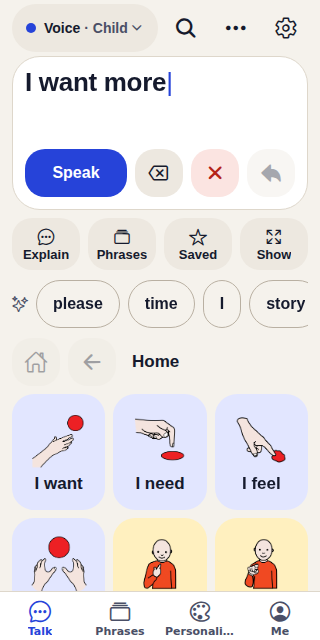
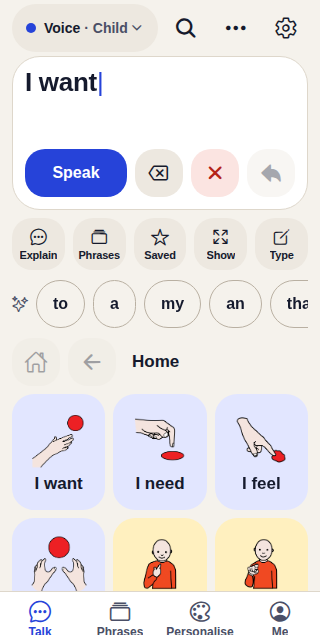
Type tool: keyboard input with on-device word completion
A fifth tool on the new board opens a Type sheet. Typed words join the
message (so Speak, Undo, Show, Saved and history work as usual); suggestion
chips complete the word being typed from the same engine as the board.
Nothing is spoken or added until the user taps Add or Add and speak.
Tool labels fit five tools on 320 dp screens.

Claude-Session: https://claude.ai/code/session_01DHKTmgjGBbdjHpazCRxgZn

diff --git a/src/screens/StudioBoardScreen.js b/src/screens/StudioBoardScreen.js
@@ -31,6 +31,7 @@ import ExplainSheet from '../components/studio/ExplainSheet';
 import PhrasesSheet from '../components/studio/PhrasesSheet';
 import SavedSheet from '../components/studio/SavedSheet';
 import ShowMessage from '../components/studio/ShowMessage';
+import TypeSheet from '../components/studio/TypeSheet';
 import ModeSheet from '../components/studio/ModeSheet';
 import MoreSheet from '../components/studio/MoreSheet';
 import { advanceScan, selectCurrent, getScanState } from '../services/switchScanService';
@@ -45,6 +46,7 @@ export default function StudioBoardScreen() {
     { id: 'tool-phrases', label: 'Phrases', onSelect: () => openRef.current?.('phrases') },
     { id: 'tool-saved', label: 'Saved', onSelect: () => openRef.current?.('saved') },
     { id: 'tool-show', label: 'Show', onSelect: () => openRef.current?.('show') },
+    { id: 'tool-type', label: 'Type', onSelect: () => openRef.current?.('type') },
   ], []);
   const b = useBoardController({ modelling, extraActions });
   const {
@@ -52,7 +54,7 @@ export default function StudioBoardScreen() {
     suggestions, history, favourites, undoWords, showFinder, setShowFinder,
     speechProblem, gridRef, sentenceScrollRef, predictionEnabled, chipFit, scanActive,
     toggleScan, isScanFocused, goBack, goHome, handleButtonPress, handleSuggestionPress,
-    speakSentence, removeLastWord, clearSentence, undo, replaceSentence, say,
+    speakSentence, removeLastWord, clearSentence, undo, replaceSentence, say, addWords,
     repeatFromHistory, speakFavourite, handleToggleFavourite, confirmRemoveFavourite,
     handleFinderAdd, handleFinderShowPage, handleFinderNoResults, isCurrentFavourite,
     voicePreset, setVoicePreset, updateSettings,
@@ -71,11 +73,21 @@ export default function StudioBoardScreen() {
   // word always speaks the message.
   const [speaking, setSpeaking] = useState(false);
   useEffect(() => subscribeSpeechStatus((st) => { if (!st.speaking) setSpeaking(false); }), []);
+  // "Add and speak" from Type: speak once the typed words are in the message,
+  // through the normal Speak path (history, learning, Stop all apply).
+  const [speakAfterAdd, setSpeakAfterAdd] = useState(false);
   const speakOrStop = useCallback(() => {
     if (speaking) { stop(); setSpeaking(false); return; }
     speakSentence();
     setSpeaking(true);
   }, [speaking, speakSentence]);
+  useEffect(() => {
+    if (!speakAfterAdd) return;
+    setSpeakAfterAdd(false);
+    speakSentence();
+    setSpeaking(true);
+    // eslint-disable-next-line react-hooks/exhaustive-deps
+  }, [sentenceWords]);
 
   // Re-render tiles when symbols finish downloading.
   const [symbolTick, setSymbolTick] = useState(0);
@@ -217,7 +229,7 @@ export default function StudioBoardScreen() {
       ]}
     >
       <Ionicons name={icon} size={19} color={c.ink} />
-      <Text style={[type.label, { color: c.ink, fontSize: 13, lineHeight: 16 }]} numberOfLines={1} maxFontSizeMultiplier={1.3}>{label}</Text>
+      <Text style={[type.label, { color: c.ink, fontSize: narrow ? 11 : 13, lineHeight: 16, letterSpacing: narrow ? -0.2 : 0 }]} numberOfLines={1} adjustsFontSizeToFit minimumFontScale={0.75} maxFontSizeMultiplier={1.3}>{label}</Text>
     </Pressable>
   );
   const tools = (
@@ -226,6 +238,7 @@ export default function StudioBoardScreen() {
       {tool('albums-outline', context ? context.label : 'Phrases', 'phrases', () => open('phrases'), `Phrases${context ? ` for ${context.label}` : ''}`)}
       {tool('star-outline', 'Saved', 'saved', () => open('saved'), 'Saved and recent messages')}
       {tool('expand-outline', 'Show', 'show', () => open('show'), t('showOnScreen'))}
+      {tool('create-outline', 'Type', 'type', () => open('type'), 'Type with the keyboard')}
     </View>
   );
 
@@ -387,6 +400,12 @@ export default function StudioBoardScreen() {
         favourites={favourites} history={history} hasWords={hasWords} isCurrentFavourite={isCurrentFavourite}
         onToggleCurrent={handleToggleFavourite} onFavourite={(f) => { speakFavourite(f); close(); }}
         onHistory={(h) => { repeatFromHistory(h); close(); }} onRemoveFavourite={confirmRemoveFavourite}
+      />
+      <TypeSheet
+        visible={sheet === 'type'} onClose={close} messageWords={sentenceWords}
+        context={settings.activeContext} mode={mode}
+        onAdd={(words) => addWords(words)}
+        onAddAndSpeak={(words) => { setSpeakAfterAdd(true); addWords(words); }}
       />
       <ShowMessage visible={sheet === 'show'} onClose={close} text={message} onSpeak={hasWords ? speakSentence : null} />
       <ModeSheet visible={sheet === 'mode'} onClose={close} />

diff --git a/src/components/studio/TypeSheet.js b/src/components/studio/TypeSheet.js
@@ -1,0 +1,87 @@
+// src/components/studio/TypeSheet.js
+// Type a message with the keyboard, with word completion from the same
+// on-device engine as the board. Typed words join the message on the board
+// (so Speak, Undo, Show and Saved all work the same); nothing is spoken or
+// added until the user taps a button. Optional: some people type, some
+// don't, and the board never assumes either.
+
+import React, { useEffect, useMemo, useRef, useState } from 'react';
+import { View, Text, TextInput, FlatList, StyleSheet, Keyboard } from 'react-native';
+import { Sheet, ActionButton, SuggestionChip } from '../../design/components';
+import { usePaper } from '../../design/usePaper';
+import { space, type, touch } from '../../design/tokens';
+import { suggestNext } from '../../services/suggestionEngine';
+import { splitTyping } from '../../utils/typing';
+
+export default function TypeSheet({ visible, onClose, messageWords, onAdd, onAddAndSpeak, context, mode }) {
+  const { c, r, scale } = usePaper();
+  const [text, setText] = useState('');
+  const input = useRef(null);
+  useEffect(() => { if (visible) { setText(''); setTimeout(() => input.current?.focus(), 250); } }, [visible]);
+
+  const { context: ctx, partial } = useMemo(() => splitTyping(text, messageWords), [text, messageWords]);
+  const suggestions = useMemo(
+    () => suggestNext(ctx, { k: 6, context, mode, prefix: partial || undefined }),
+    [ctx, partial, context, mode]
+  );
+
+  const accept = (word) => {
+    // Replace the partial word (if any) with the suggestion, then a space.
+    const base = partial ? text.slice(0, text.length - partial.length) : text.replace(/\s*$/, text.trim() ? ' ' : '');
+    setText(`${base}${word} `);
+    input.current?.focus();
+  };
+
+  const words = text.trim() ? text.trim().split(/\s+/) : [];
+  const finish = (speakToo) => {
+    if (words.length === 0) return;
+    Keyboard.dismiss();
+    if (speakToo) onAddAndSpeak(words); else onAdd(words);
+    setText('');
+    onClose();
+  };
+
+  return (
+    <Sheet visible={visible} onClose={onClose} title="Type" subtitle="Typed words join your message. Suggestions complete the word you are typing.">
+      <TextInput
+        ref={input}
+        value={text}
+        onChangeText={setText}
+        placeholder="Type here"
+        placeholderTextColor={c.inkSoft}
+        style={[styles.input, { color: c.ink, borderColor: c.lineStrong, backgroundColor: c.card, borderRadius: r.control, fontSize: Math.round(20 * scale) }]}
+        autoCapitalize="sentences"
+        autoCorrect
+        multiline
+        accessibilityLabel="Type your message"
+        returnKeyType="done"
+        blurOnSubmit
+        onSubmitEditing={() => finish(false)}
+      />
+      <View style={[styles.suggest, { height: touch.min + space.md }]} accessibilityLabel="Word suggestions">
+        {suggestions.length === 0 ? (
+          <Text style={[type.body, { color: c.inkSoft }]}>No suggestions</Text>
+        ) : (
+          <FlatList
+            data={suggestions}
+            horizontal
+            keyboardShouldPersistTaps="always"
+            showsHorizontalScrollIndicator={false}
+            keyExtractor={(item, i) => `${item.word}-${i}`}
+            renderItem={({ item }) => <SuggestionChip word={item.word} onPress={() => accept(item.word)} />}
+          />
+        )}
+      </View>
+      <View style={styles.row}>
+        <ActionButton label="Add" icon="add" a11yLabel="Add to message" onPress={() => finish(false)} disabled={words.length === 0} flex={1} size={touch.action} />
+        <ActionButton label="Add and speak" icon="volume-high" variant="signal" onPress={() => finish(true)} disabled={words.length === 0} flex={1} size={touch.action} />
+      </View>
+    </Sheet>
+  );
+}
+
+const styles = StyleSheet.create({
+  input: { minHeight: 88, borderWidth: 1.5, padding: space.md, textAlignVertical: 'top' },
+  suggest: { flexDirection: 'row', alignItems: 'center', marginTop: space.sm },
+  row: { flexDirection: 'row', gap: space.sm, marginTop: space.sm },
+});

diff --git a/src/__tests__/typing.test.js b/src/__tests__/typing.test.js
@@ -1,0 +1,27 @@
+// Typing: the partial word is completed from the board's own engine; typed
+// words never touch the message until the user adds them.
+import { splitTyping } from '../utils/typing';
+import { suggestNext } from '../services/suggestionEngine';
+
+describe('splitTyping', () => {
+  test('separates finished words from the word being typed', () => {
+    expect(splitTyping('I want wa', ['hello'])).toEqual({ context: ['hello', 'I', 'want'], partial: 'wa', done: ['I', 'want'] });
+  });
+  test('a trailing space means no partial word', () => {
+    expect(splitTyping('I want ', [])).toEqual({ context: ['I', 'want'], partial: '', done: ['I', 'want'] });
+  });
+  test('empty text', () => {
+    expect(splitTyping('', ['a'])).toEqual({ context: ['a'], partial: '', done: [] });
+  });
+});
+
+describe('word completion', () => {
+  test('every completion starts with what was typed', () => {
+    const out = suggestNext(['i', 'want'], { prefix: 'wa', k: 6 });
+    expect(out.length).toBeGreaterThan(0);
+    out.forEach((s) => expect(s.word.toLowerCase().startsWith('wa')).toBe(true));
+  });
+  test('board words can be completed even without context', () => {
+    expect(suggestNext([], { prefix: 'thir', k: 6 }).map((s) => s.word.toLowerCase())).toContain('thirsty');
+  });
+});

diff --git a/src/services/suggestionEngine.js b/src/services/suggestionEngine.js
@@ -43,11 +43,12 @@ export function setLearningEnabled(on) {
 /**
  * Suggestions for the words so far: [{ word, reason, source }].
  * A phrase the user often says may come first (multi-word suggestion).
+ * With `prefix` (typing), completes the word being typed instead.
  */
-export function suggestNext(words, { context, mode, k = 6 } = {}) {
+export function suggestNext(words, { context, mode, k = 6, prefix } = {}) {
   try {
     const out = [];
-    if (words.length > 0) {
+    if (words.length > 0 && !prefix) {
       const phrases = predictor.predictPhrases ? predictor.predictPhrases(words, { k: 1 }) : [];
       phrases.forEach((ph) => {
         if (ph.completion && ph.completion.split(' ').length > 1) {
@@ -55,7 +56,7 @@ export function suggestNext(words, { context, mode, k = 6 } = {}) {
         }
       });
     }
-    predictor.predict(words, { k, context: context || undefined, mode }).forEach((r) => {
+    predictor.predict(words, { k, context: context || undefined, mode, prefix: prefix || undefined }).forEach((r) => {
       if (!out.some((o) => o.word.toLowerCase() === r.label.toLowerCase())) {
         out.push({ word: r.label, reason: r.reason, source: r.source });
       }

diff --git a/src/utils/typing.js b/src/utils/typing.js
@@ -1,0 +1,10 @@
+// src/utils/typing.js
+// Helpers for the Type sheet (pure, unit-tested).
+
+/** Split typed text into the finished words and the word being typed. */
+export function splitTyping(text, messageWords = []) {
+  const endsWithSpace = /\s$/.test(text);
+  const parts = text.trim() ? text.trim().split(/\s+/) : [];
+  const partial = endsWithSpace ? '' : (parts.pop() || '');
+  return { context: [...messageWords, ...parts], partial, done: parts };
+}
